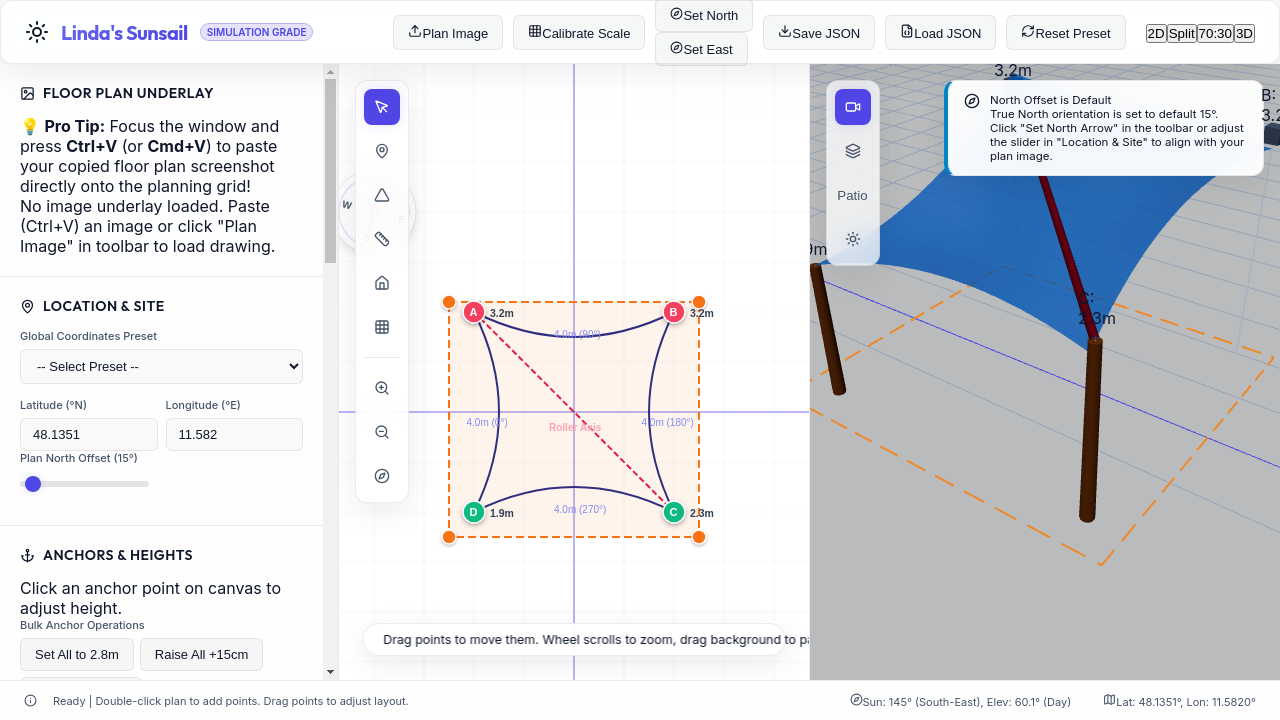
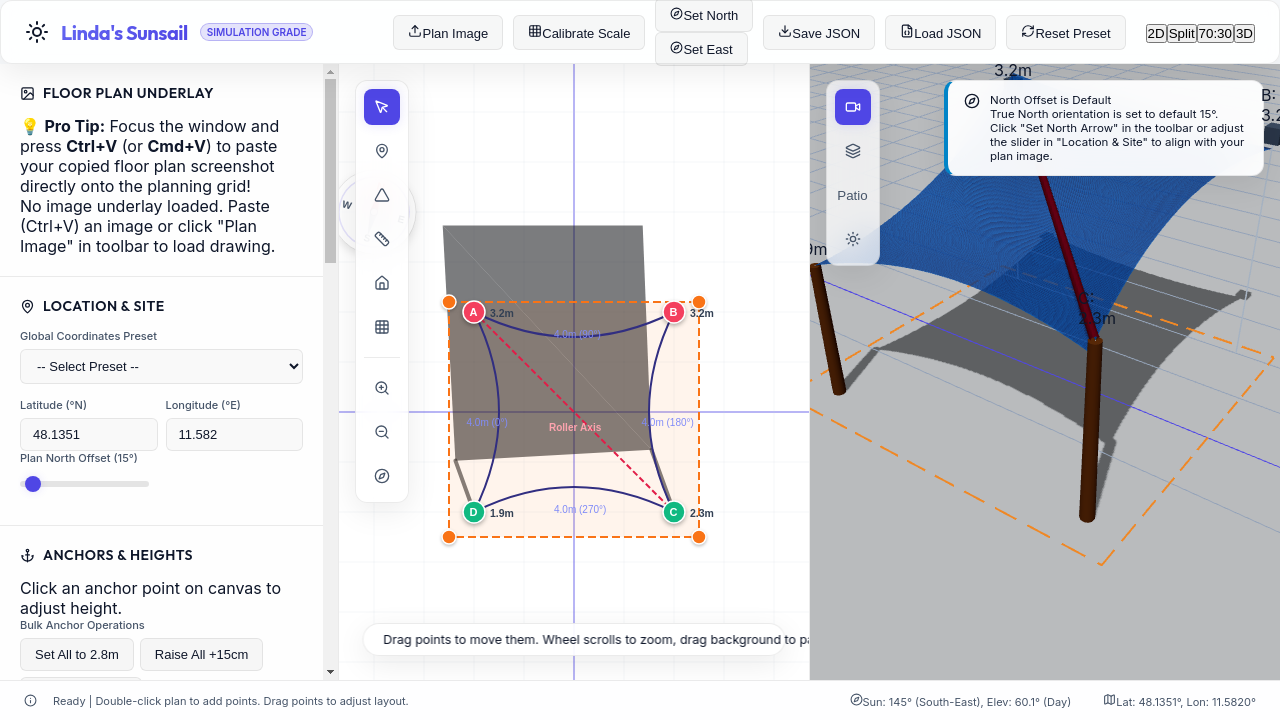
chore: update screenshots, add animated shadow simulation GIFs, and expose store for testing

Changed region(s): [[0.6875, 0.2444, 0.9688, 0.7028], [0.3438, 0.3056, 0.5312, 0.6722], [0.6562, 0.4889, 0.6875, 0.55]]

diff --git a/src/main.tsx b/src/main.tsx
@@ -2,9 +2,13 @@ import { StrictMode } from 'react'
 import { createRoot } from 'react-dom/client'
 import './index.css'
 import App from './App.tsx'
+import { useProjectStore } from './store/useProjectStore'
+
+(window as any).useProjectStore = useProjectStore;
 
 createRoot(document.getElementById('root')!).render(
   <StrictMode>
     <App />
   </StrictMode>,
 )
+

diff --git a/README.md b/README.md
@@ -20,6 +20,15 @@ Featuring high-precision scale calibration, interactive drag-handles for sails, 
 Interactive Three.js environment showing saddle mesh curvature, guide posts with floating height meters, a glowing sun sphere sweep, and accurate high-contrast structural ground shadows.
 ![Linda's Sunsail 3D Simulation View](screenshots/sunsail-3d-scene.png)
 
+### 🎬 Real-time Solar Shadow Animations
+Watch **Linda's Sunsail** Astronomical Sun & Shadow Engine dynamically scrub through hours from **08:00 AM to 06:00 PM** (standard Munich coordinates), showing exact real-time shadow movements:
+
+#### A. Unified Dual Workspace Time Lapse
+![Linda's Sunsail Simulation Workspace](screenshots/sunsail-simulation-workspace.gif)
+
+#### B. Focused 3D Shadow Sweep
+![Linda's Sunsail 3D Scene Shadow Sweep](screenshots/sunsail-simulation-3d.gif)
+
 ---
 
 ## ✨ Outstanding Core Features